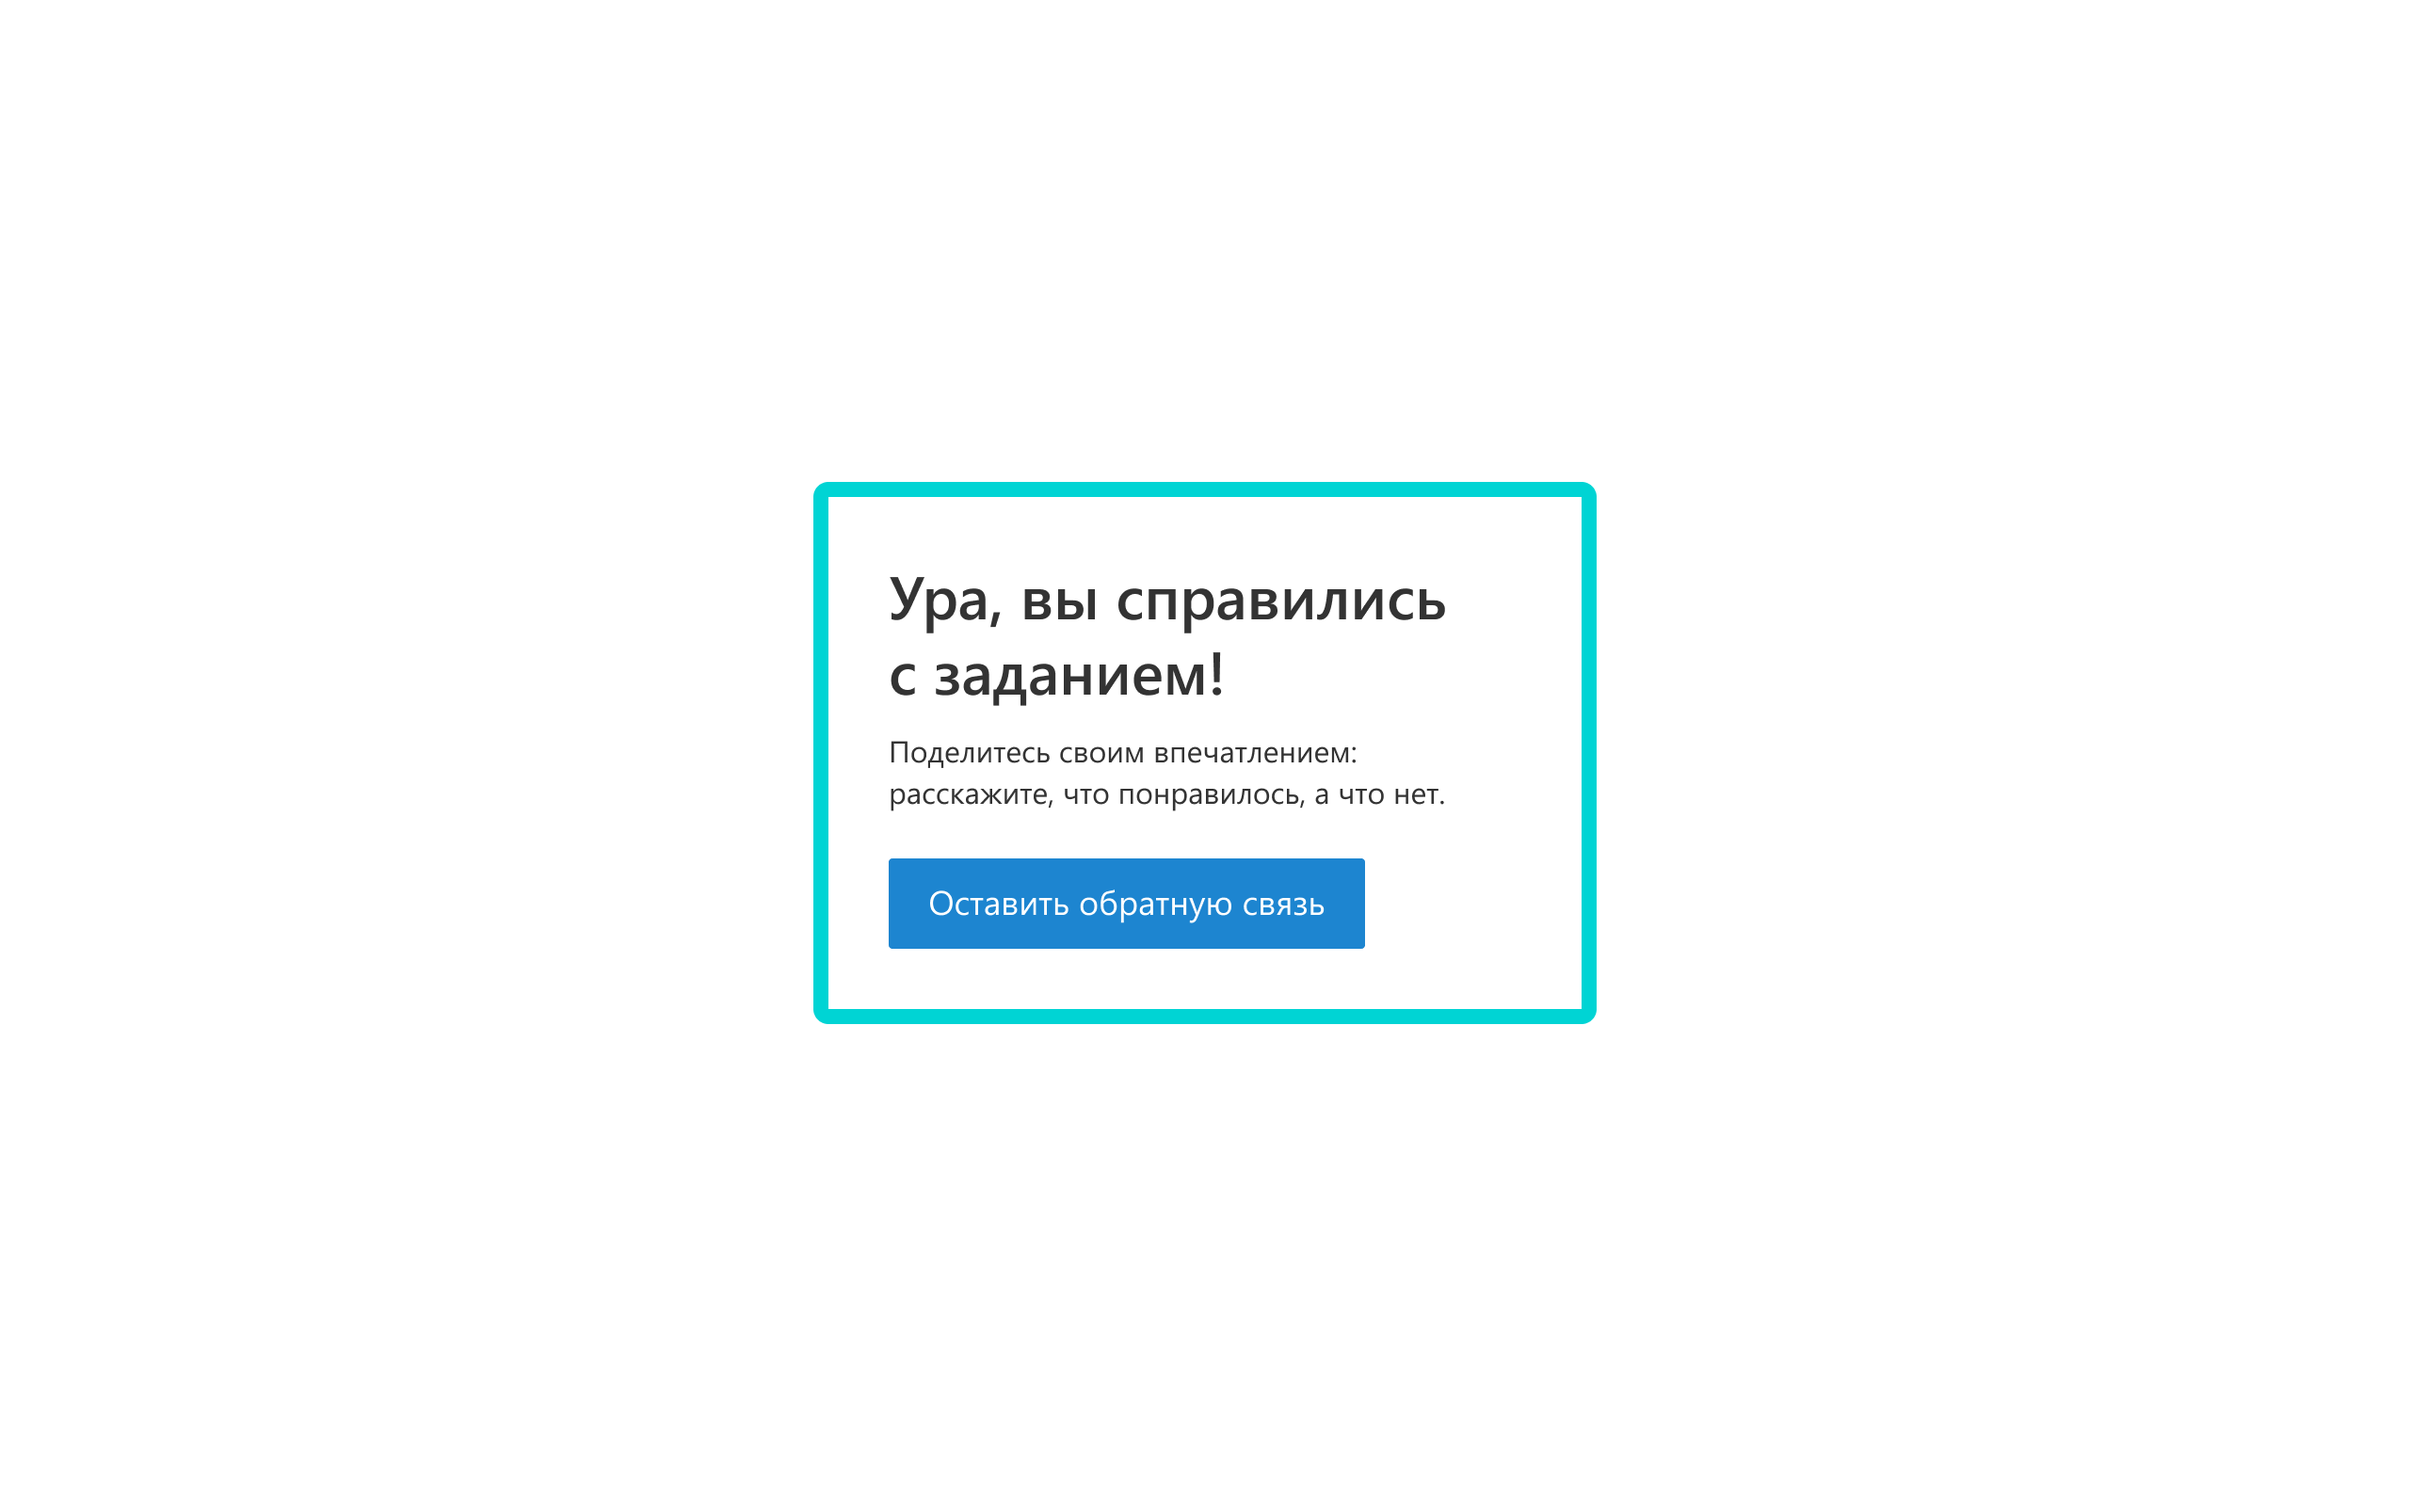
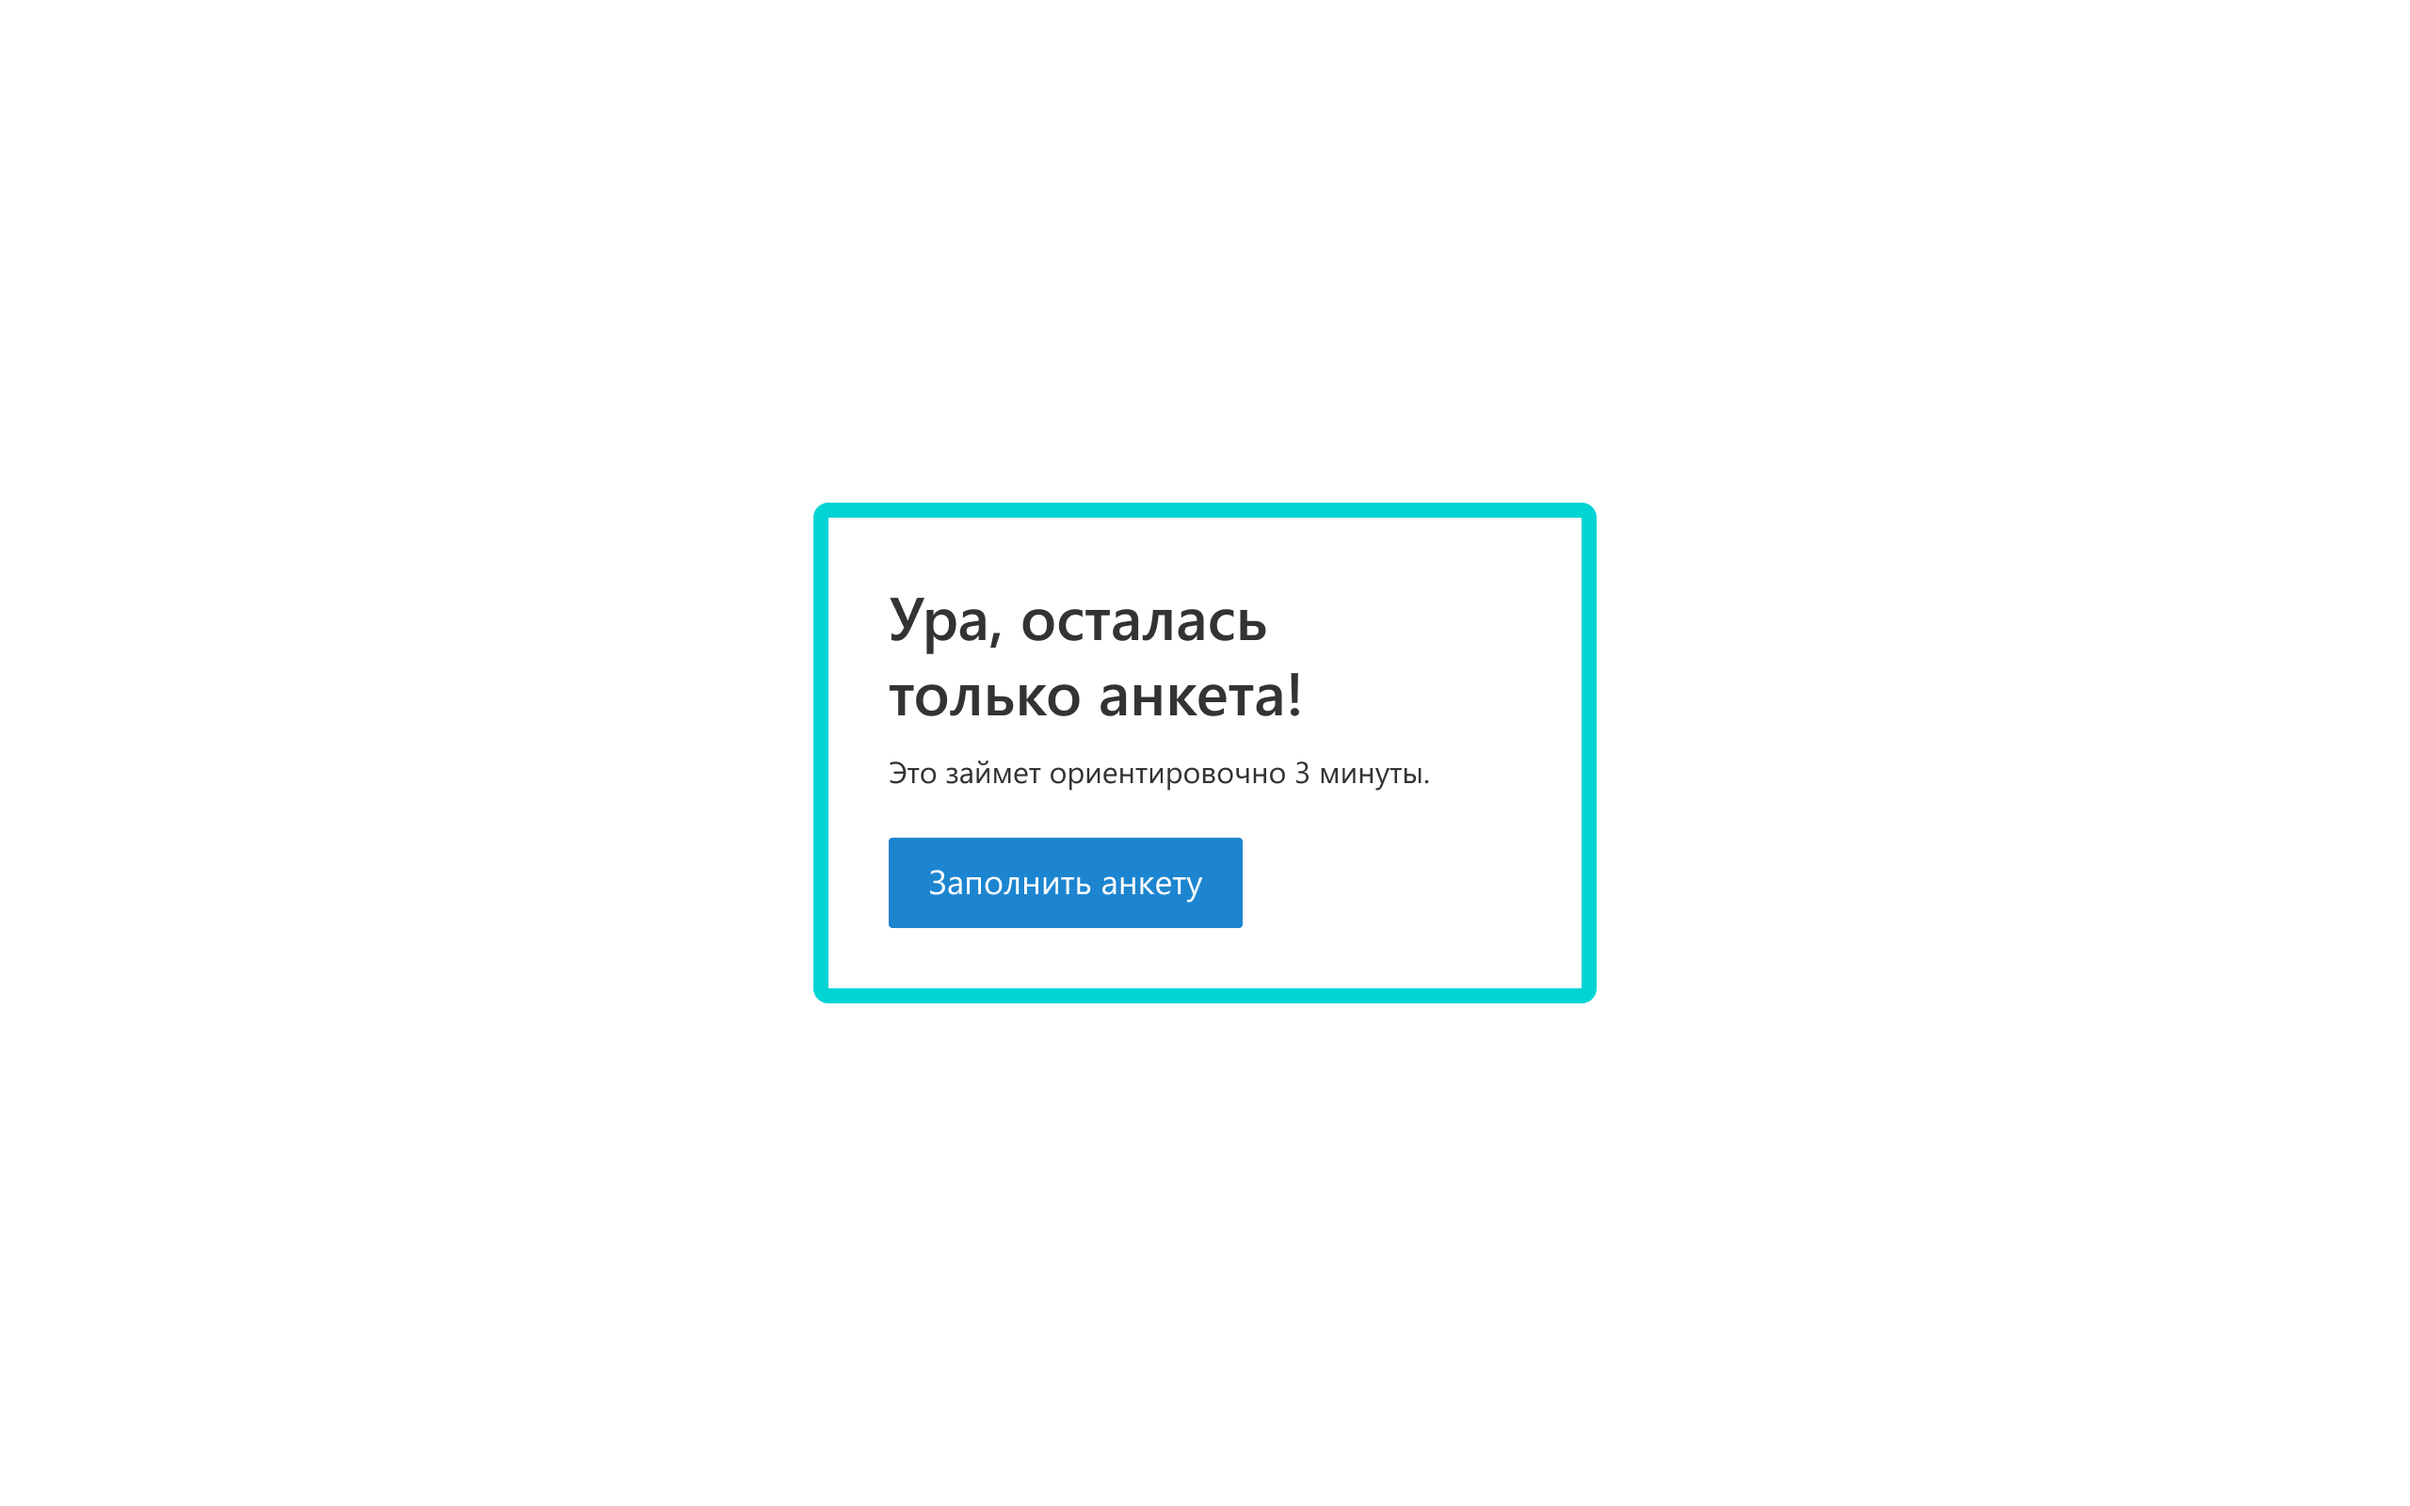
Изменили сообщение и  кнопку в конце

Changed region(s): [[0.3438, 0.375, 0.6562, 0.6875], [0.3438, 0.3125, 0.6562, 0.3438]]

diff --git a/3-end-fail.html b/3-end-fail.html
@@ -23,7 +23,7 @@
     <body>
         <div class="wrapper" style="background: url('./img/3-end.png') center center no-repeat; background-size: 100%;">
 
-            <a href="https://kontur.typeform.com/to/zPeF98?userid=xxxxx&organizationid=xxxxx" target="_self" style="top: 456px; left: 472px; width: 253px; height: 48px;"></a>
+            <a href="https://kontur.typeform.com/to/zPeF98?userid=xxxxx&organizationid=xxxxx" target="_self" style="top: 445px; left: 472px; width: 188px; height: 48px;"></a>
 
         </div>
     </body>

diff --git a/3-end-success.html b/3-end-success.html
@@ -23,7 +23,7 @@
     <body>
         <div class="wrapper" style="background: url('./img/3-end.png') center center no-repeat; background-size: 100%;">
 
-            <a href="https://kontur.typeform.com/to/zPeF98?userid=xxxxx&organizationid=xxxxx" target="self" style="top: 456px; left: 472px; width: 253px; height: 48px;"></a>
+            <a href="https://kontur.typeform.com/to/zPeF98?userid=xxxxx&organizationid=xxxxx" target="self" style="top: 445px; left: 472px; width: 188px; height: 48px;"></a>
 
         </div>
     </body>
